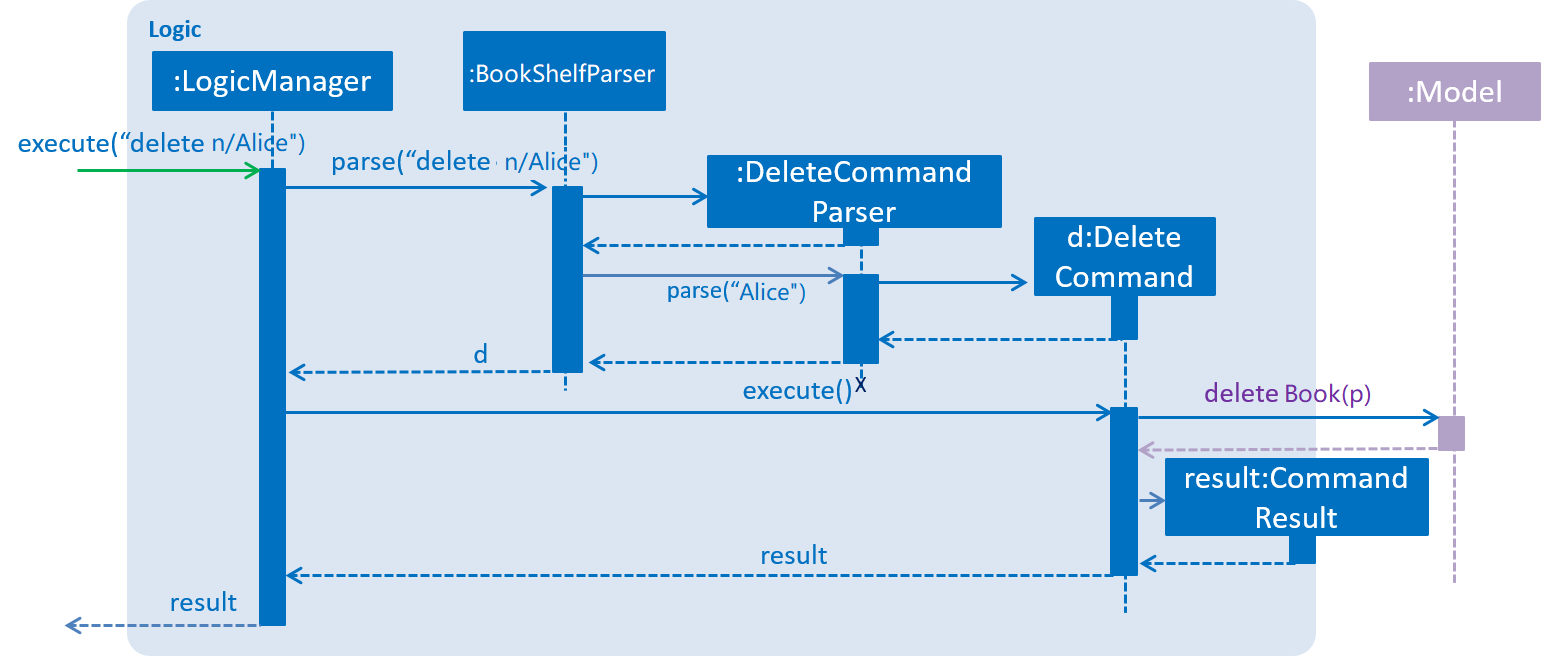
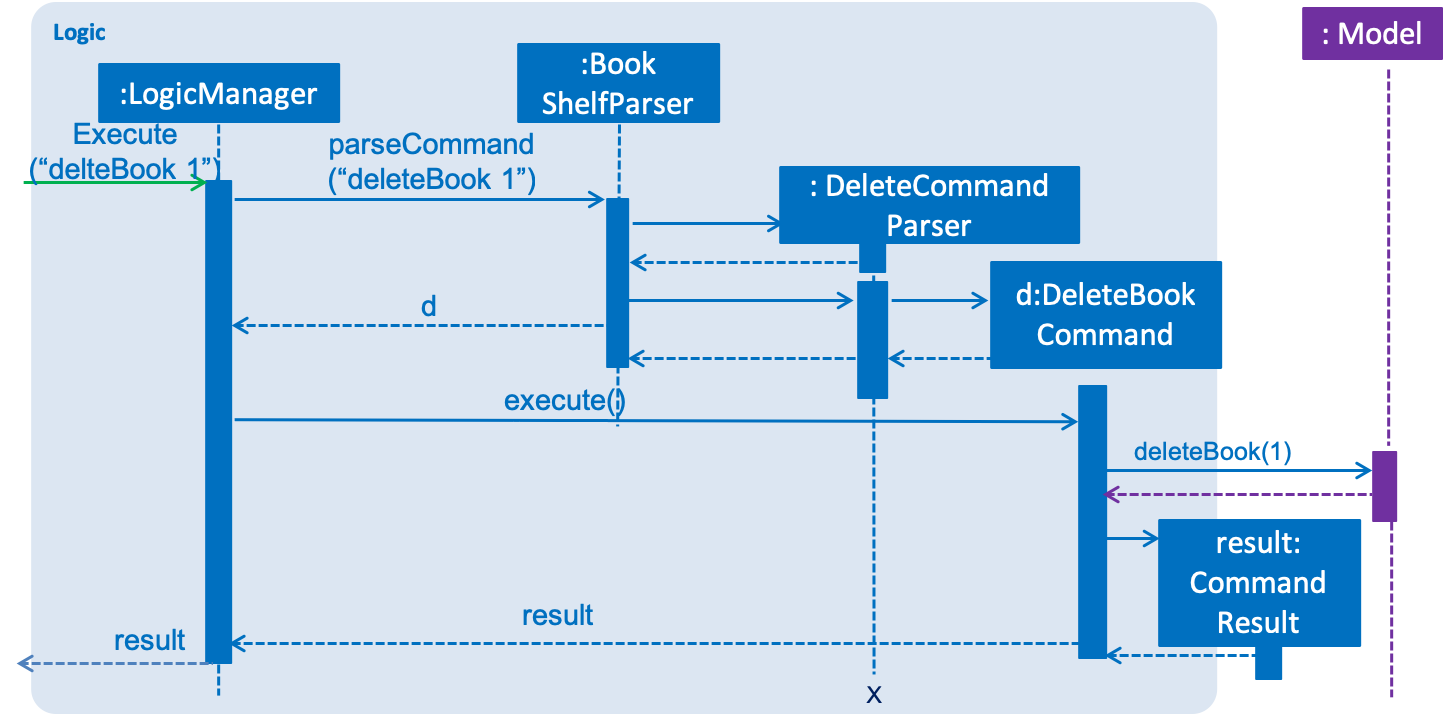
Rebuild pages at 9667cc4b7485dda262d34681edbbe853c931a2a6

Changed region(s): [[0.0, 0.0, 1.0, 1.0]]

diff --git a/DeveloperGuide.html b/DeveloperGuide.html
@@ -399,7 +399,7 @@ The following class plays an important role at the architecture level:</p>
 <div class="content">
 <img src="images/SDforDeleteBook.png" alt="SDforDeleteBook" width="800">
 </div>
-<div class="title">Figure 3. Component interactions for <code>deleteBook n/Alice</code> command</div>
+<div class="title">Figure 3. Component interactions for <code>deleteBook 1</code> command</div>
 </div>
 <div class="paragraph">
 <p>The sections below give more details of each component.</p>
@@ -468,13 +468,13 @@ The following class plays an important role at the architecture level:</p>
 </ol>
 </div>
 <div class="paragraph">
-<p>Given below is the Sequence Diagram for interactions within the <code>Logic</code> component for the <code>execute("deleteBook n/Alice")</code> API call.</p>
+<p>Given below is the Sequence Diagram for interactions within the <code>Logic</code> component for the <code>execute("deleteBook 1")</code> API call.</p>
 </div>
 <div class="imageblock">
 <div class="content">
 <img src="images/DeleteBookSdForLogic.png" alt="DeleteBookSdForLogic" width="800">
 </div>
-<div class="title">Figure 6. Interactions Inside the Logic Component for the <code>deleteBook n/Alice</code> Command</div>
+<div class="title">Figure 6. Interactions Inside the Logic Component for the <code>deleteBook 1</code> Command</div>
 </div>
 </div>
 <div class="sect2">
@@ -1689,7 +1689,7 @@ e.g. <code>seedu.address.logic.LogicManagerTest</code></p>
 <div class="olist arabic">
 <ol class="arabic">
 <li>
-<p>User requests to delete a book and all its reviews by the book&#8217;s exact name</p>
+<p>User requests to delete a book and all its reviews by the book&#8217;s index in the list</p>
 </li>
 <li>
 <p>Book Squirrel deletes the book</p>
@@ -1854,4 +1854,4 @@ Expected: Similar to previous.</p>
 </div>
 </div>
 </div>
-</div></div><div id="footer"><div class="container"><div id="footer-text">Last updated 2019-04-02 07:19:45 UTC</div></div></div></body></html>
+</div></div><div id="footer"><div class="container"><div id="footer-text">Last updated 2019-04-02 08:41:46 UTC</div></div></div></body></html>

diff --git a/team/johndoe.html b/team/johndoe.html
@@ -586,4 +586,4 @@ If the <code>currentStatePointer</code> is at index <code>BookShelfStateList.siz
 <p><em>{Optionally, you may include other projects in your portfolio.}</em></p>
 </div>
 </div>
-</div></div><div id="footer"><div class="container"><div id="footer-text">Last updated 2019-04-02 07:19:45 UTC</div></div></div></body></html>
+</div></div><div id="footer"><div class="container"><div id="footer-text">Last updated 2019-04-02 08:41:46 UTC</div></div></div></body></html>

diff --git a/ContactUs.html b/ContactUs.html
@@ -12,4 +12,4 @@
 <p><strong>Email us</strong> : You can also reach us at <a href="mailto:tieze.zhang@u.nus.edu">tieze.zhang@u.nus.edu</a></p>
 </li>
 </ul>
-</div></div><div id="footer"><div class="container"><div id="footer-text">Last updated 2019-04-02 07:19:45 UTC</div></div></div></body></html>
+</div></div><div id="footer"><div class="container"><div id="footer-text">Last updated 2019-04-02 08:41:46 UTC</div></div></div></body></html>

diff --git a/UsingGradle.html b/UsingGradle.html
@@ -255,4 +255,4 @@ See <code>build.gradle</code> &#8594; <code>allprojects</code> &#8594; <code>dep
 </ul>
 </div>
 </div>
-</div></div><div id="footer"><div class="container"><div id="footer-text">Last updated 2019-04-02 07:19:45 UTC</div></div></div></body></html>
+</div></div><div id="footer"><div class="container"><div id="footer-text">Last updated 2019-04-02 08:41:46 UTC</div></div></div></body></html>

diff --git a/UsingNetlify.html b/UsingNetlify.html
@@ -123,4 +123,4 @@ The publish directory is the directory in which the built HTML documentation res
 </ol>
 </div>
 </div>
-</div></div><div id="footer"><div class="container"><div id="footer-text">Last updated 2019-04-02 07:19:45 UTC</div></div></div></body></html>
+</div></div><div id="footer"><div class="container"><div id="footer-text">Last updated 2019-04-02 08:41:46 UTC</div></div></div></body></html>

diff --git a/UsingCoveralls.html b/UsingCoveralls.html
@@ -96,4 +96,4 @@ If you have not set up Travis CI, see <a href="UsingTravis.html">UsingTravis.ado
 </ol>
 </div>
 </div>
-</div></div><div id="footer"><div class="container"><div id="footer-text">Last updated 2019-04-02 07:19:45 UTC</div></div></div></body></html>
+</div></div><div id="footer"><div class="container"><div id="footer-text">Last updated 2019-04-02 08:41:46 UTC</div></div></div></body></html>

diff --git a/UsingTravis.html b/UsingTravis.html
@@ -277,4 +277,4 @@ Suggested change: Remove the codacy badge from <code>README</code>.</p>
 </div>
 </div>
 </div>
-</div></div><div id="footer"><div class="container"><div id="footer-text">Last updated 2019-04-02 07:19:45 UTC</div></div></div></body></html>
+</div></div><div id="footer"><div class="container"><div id="footer-text">Last updated 2019-04-02 08:41:46 UTC</div></div></div></body></html>

diff --git a/UsingCheckstyle.html b/UsingCheckstyle.html
@@ -91,4 +91,4 @@ Restart the IDE to complete the installation.</p>
 </ul>
 </div>
 </div>
-</div></div><div id="footer"><div class="container"><div id="footer-text">Last updated 2019-04-02 07:19:45 UTC</div></div></div></body></html>
+</div></div><div id="footer"><div class="container"><div id="footer-text">Last updated 2019-04-02 08:41:46 UTC</div></div></div></body></html>

diff --git a/HelpWindow.html b/HelpWindow.html
@@ -764,4 +764,4 @@ e.g. <code>selectReview 1</code></p>
 </div>
 </div>
 </div>
-</div></div><div id="footer"><div class="container"><div id="footer-text">Last updated 2019-04-02 07:19:45 UTC</div></div></div></body></html>
+</div></div><div id="footer"><div class="container"><div id="footer-text">Last updated 2019-04-02 08:41:46 UTC</div></div></div></body></html>

diff --git a/UserGuide.html b/UserGuide.html
@@ -764,4 +764,4 @@ e.g. <code>selectReview 1</code></p>
 </div>
 </div>
 </div>
-</div></div><div id="footer"><div class="container"><div id="footer-text">Last updated 2019-04-02 07:19:45 UTC</div></div></div></body></html>
+</div></div><div id="footer"><div class="container"><div id="footer-text">Last updated 2019-04-02 08:41:46 UTC</div></div></div></body></html>

diff --git a/UsingAppVeyor.html b/UsingAppVeyor.html
@@ -145,4 +145,4 @@ grant access:</p>
 </ol>
 </div>
 </div>
-</div></div><div id="footer"><div class="container"><div id="footer-text">Last updated 2019-04-02 07:19:45 UTC</div></div></div></body></html>
+</div></div><div id="footer"><div class="container"><div id="footer-text">Last updated 2019-04-02 08:41:46 UTC</div></div></div></body></html>

diff --git a/index.html b/index.html
@@ -71,4 +71,4 @@
 <div class="sectionbody">
 
 </div>
-</div></div><div id="footer"><div class="container"><div id="footer-text">Last updated 2019-04-02 07:19:45 UTC</div></div></div></body></html>
+</div></div><div id="footer"><div class="container"><div id="footer-text">Last updated 2019-04-02 08:41:46 UTC</div></div></div></body></html>
